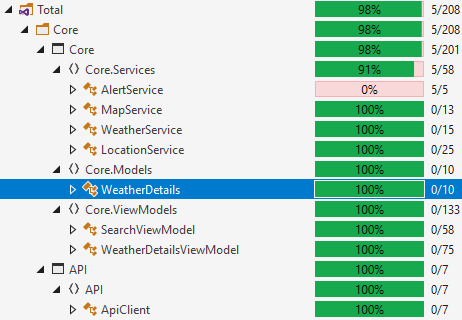
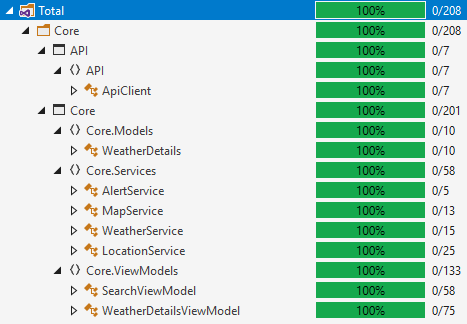
Add Dummy Alert Tests; Update NuGet Packages

Changed region(s): [[0.0, 0.0, 1.0, 1.0], [0.1515, 0.25, 0.1818, 0.2812]]

diff --git a/Core.UnitTests/Services/AlertServiceTests.cs b/Core.UnitTests/Services/AlertServiceTests.cs
@@ -1,0 +1,46 @@
+using System;
+using System.Collections.Generic;
+using System.Text;
+using System.Threading.Tasks;
+using Core.Models;
+using Core.Resources;
+using Core.Services;
+using Core.UnitTests.TestData;
+using InteractiveAlert;
+using Moq;
+using MvvmCross.Tests;
+using NUnit.Framework;
+using Shouldly;
+using Xamarin.Essentials;
+
+namespace Core.UnitTests.Services
+{
+    public class AlertServiceTests : MvxIoCSupportingTest
+    {
+        private Mock<IInteractiveAlerts> interactiveMock;
+
+        public AlertServiceTests()
+        {
+            base.Setup();
+        }
+
+        protected override void AdditionalSetup()
+        {
+            interactiveMock = new Mock<IInteractiveAlerts>();
+            Ioc.RegisterSingleton<IInteractiveAlerts>(interactiveMock.Object);
+        }
+
+        [Test]
+        public void Show_CreateInteractiveAlertConfig_ShowAlertCalled()
+        {
+            //Arrange
+            var alertService = Ioc.IoCConstruct<AlertService>();
+
+            //Act
+            alertService.Show(It.IsAny<string>(), It.IsAny<AlertType>());
+
+            //Assert
+            interactiveMock.Verify(x => x.ShowAlert(It.IsAny<InteractiveAlertConfig>()), Times.Once);
+        }
+    }
+}

diff --git a/Core.UnitTests/ViewModels/SearchViewModelTests.cs b/Core.UnitTests/ViewModels/SearchViewModelTests.cs
@@ -55,7 +55,6 @@ namespace Core.UnitTests.ViewModels
             alertMock = new Mock<IAlertService>();
             Ioc.RegisterSingleton<IAlertService>(alertMock.Object);
 
-
             connectivityMock = new Mock<IConnectivity>();
             connectivityMock.Setup(a => a.IsConnected)
                 .Returns(true);
